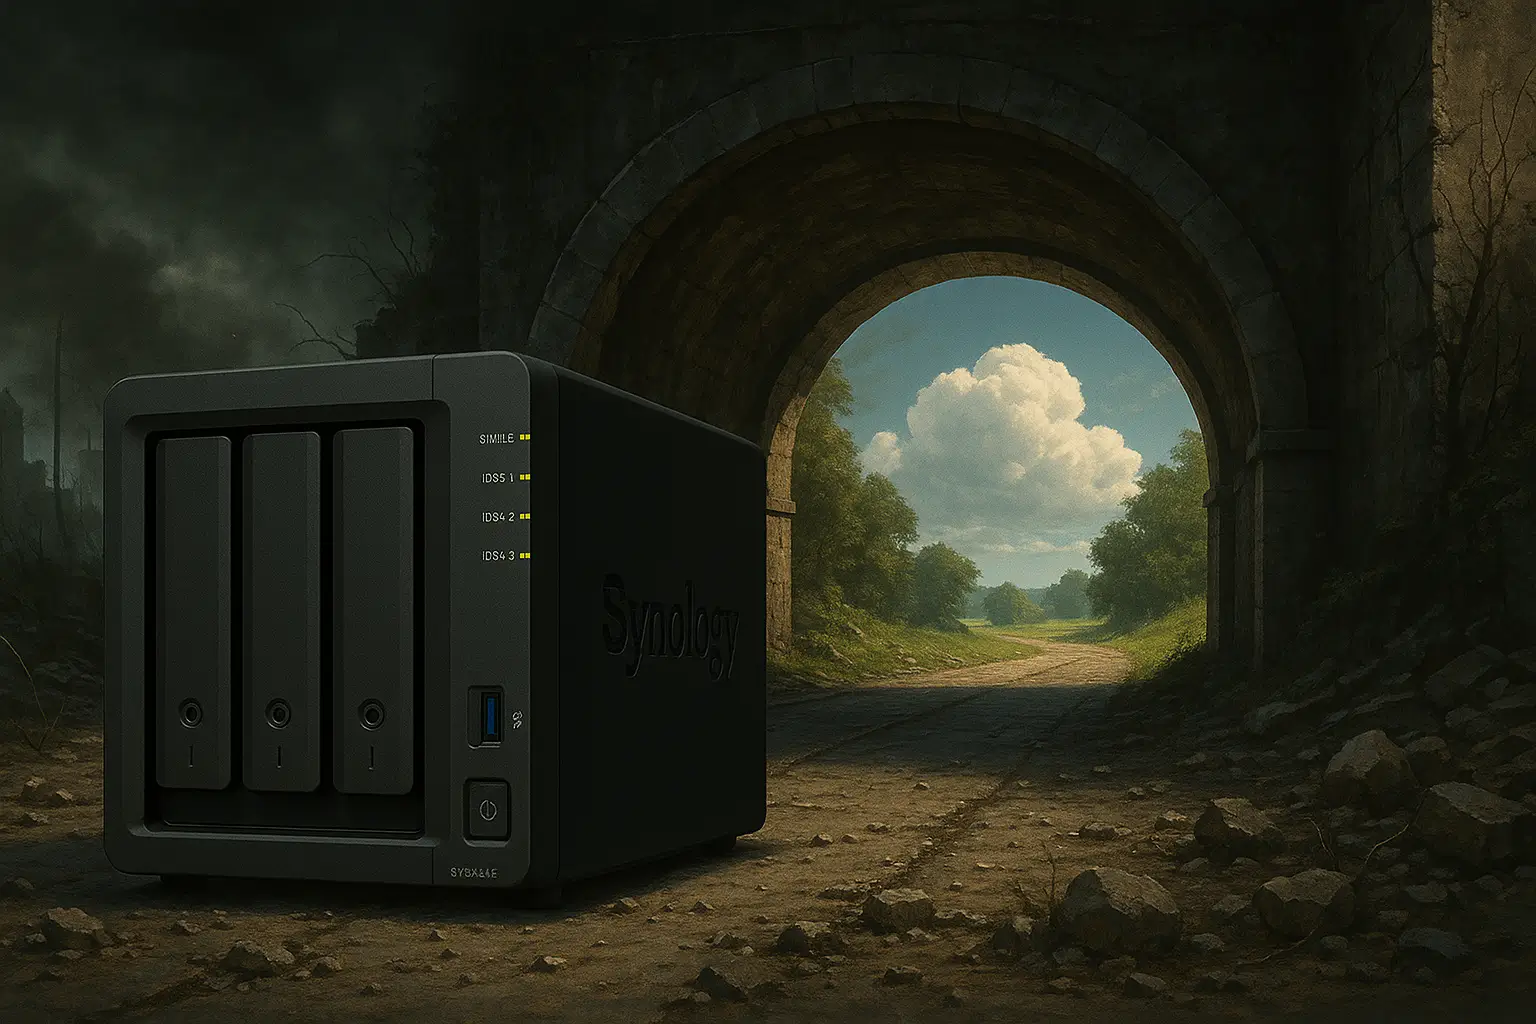
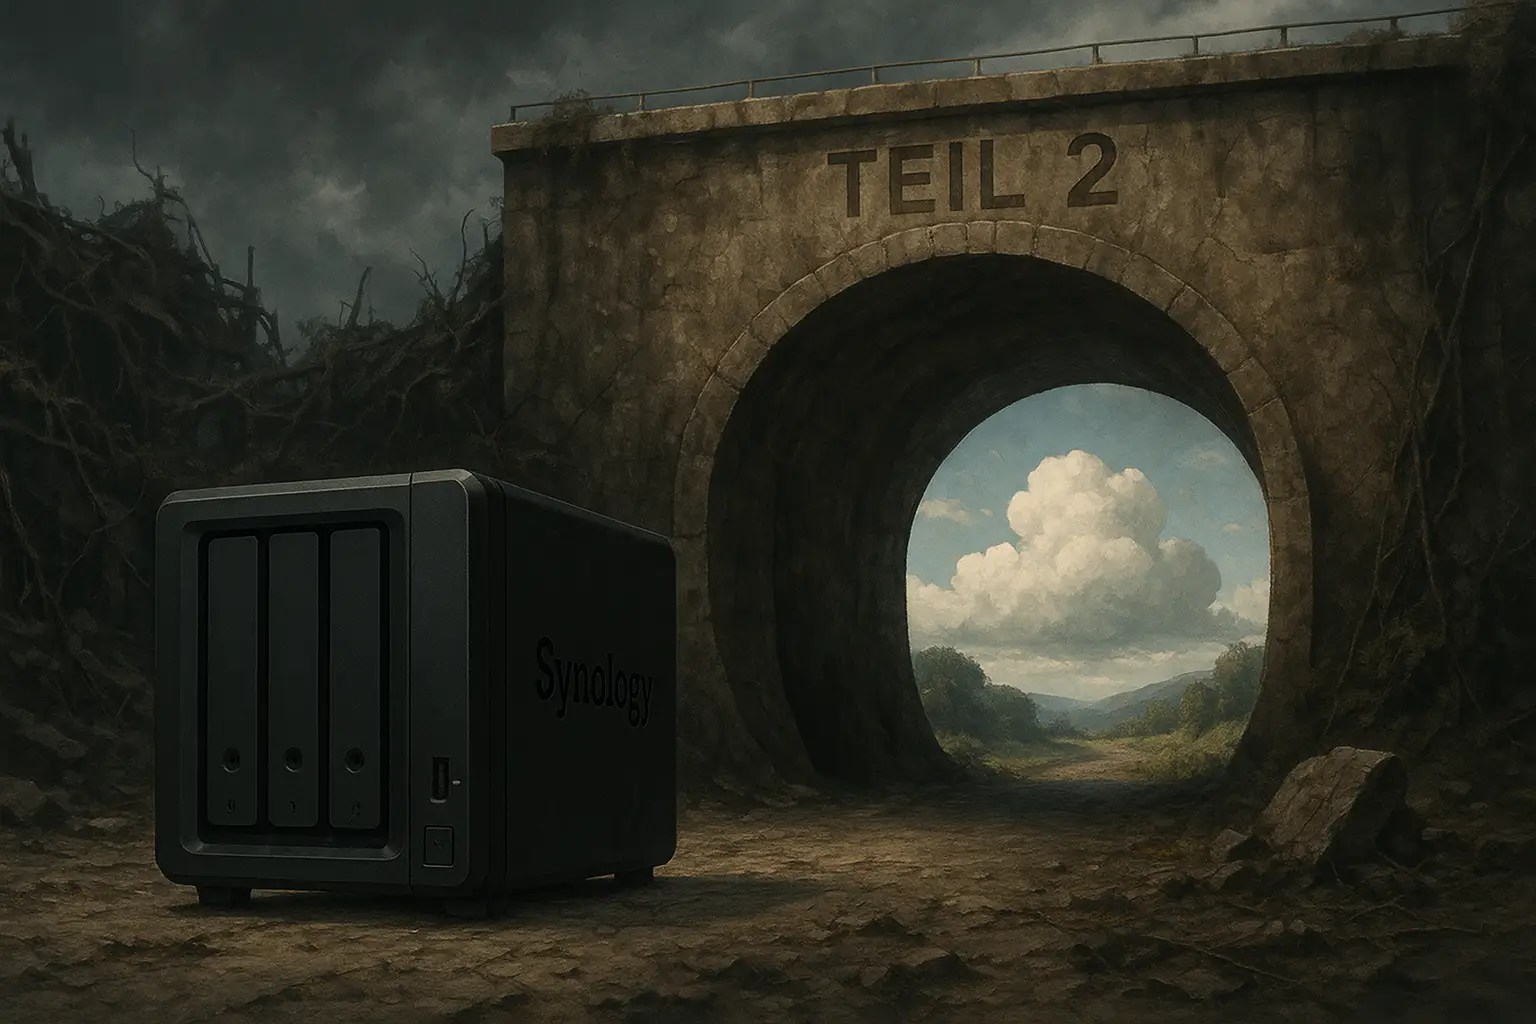
Vorlage weiterer Teile

diff --git a/content/posts/tunneln-mit-vps-reverseproxy-wireguard-teil-1/index.md b/content/posts/tunneln-mit-vps-reverseproxy-wireguard-teil-1/index.md
@@ -39,7 +39,8 @@ Um diesem Tutorial folgen zu können, brauchst du...
 
 * ... einen Server, den du aus dem Internet heraus erreichen kannst
 * ... eine lauffähige Docker-Installation auf dem Server
-* ... optional eine Domain oder einen DynDNS, wie beispielsweise von [IPv64](https://ipv64.net/) oder [DuckDNS](https://www.duckdns.org/)
+* ... eine Domain oder einen DynDNS, wie beispielsweise von [IPv64](https://ipv64.net/) oder [DuckDNS](https://www.duckdns.org/)
+* ... Für die Anbindung des NAS in Teil 2: Ein NAS auf dem Docker (bei Synology mittlerweile _Container Manager_) installiert ist
 
 Ein solcher Server hat natürlich monatliche Kosten. Hetzner rechnet tatsächlich stundenweise ab. Du kannst also auch dem Tutorial folgen, alles aufsetzen, entscheiden, dass alles doof war und den Server abreißen. Dann zahlst du nur die Stunden, die der Server tatsächlich existierte. Sollte dies aber eine Dauerlösung werden, musst du monatlich für den Server zahlen. Auch deine Domain kann etwas kosten, sofern du eine eigene erworben hast.
 

diff --git a/content/posts/tunneln-mit-vps-reverseproxy-wireguard-teil-3/index.md b/content/posts/tunneln-mit-vps-reverseproxy-wireguard-teil-3/index.md
@@ -1,0 +1,18 @@
+---
+author: ["Chrischi"]
+title: "NAS als Private Cloud: Eigener Tunnel mit virtuellem privaten Server, Reverse Proxy & WireGuard - Teil 3"
+slug: "nas als cloud eigener tunnel mit virtuellem privaten server reverse proxy und wireguard teil 3"
+date: "2025-08-11"
+draft: true
+description: "Eine Private Cloud geht auch als DIY-Lösung mit eigenem Server. In Teil 3 öffnen wir Routen ins Internet"
+summary: "In Teil 1 haben wir unser Setup vorbereitet und in Teil 2 das VPN-Netz aufgesetzt. Der Zugriff mit verbundenem VPN-Client steht. Im dritten und letzten Teil öffnen wir einige Services ins Internet."
+ShowToc: true
+TocOpen: false
+tags: ["Synology", "WireGuard", "Zoraxy", "Virtual Private Server"]
+categories: ["Tutorials", "Synology NAS"]
+series: ["Private Cloud mit einem Synology NAS"]
+cover:
+  image: featured-image.webp
+  caption: Der Tunnel zur Cloud - Erstellt von ChatGPT
+---
+

diff --git a/content/posts/ipad-als-arbeitsgeraet-top-apps/index.md b/content/posts/ipad-als-arbeitsgeraet-top-apps/index.md
@@ -2,7 +2,7 @@
 author: ["Chrischi"]
 title: "Das iPad als Arbeitsgerät: Meine Top Apps"
 slug: "das-ipad-als-arbeitsgeraet-meine-top-apps"
-date: "2025-08-04"
+date: "2025-08-18"
 draft: true
 description: "iPad Apps, ohne die es bei mir nicht geht"
 summary: "Das iPad kann sehr viel mehr sein, als nur ein Tablet für Medienkonsum. Das Gerät ist mit einer irrsinnigen Leistung ausgestattet, da fehlen oft nur die passenden Apps, um die Leistung zu nutzen. Hier meine Tipps."
